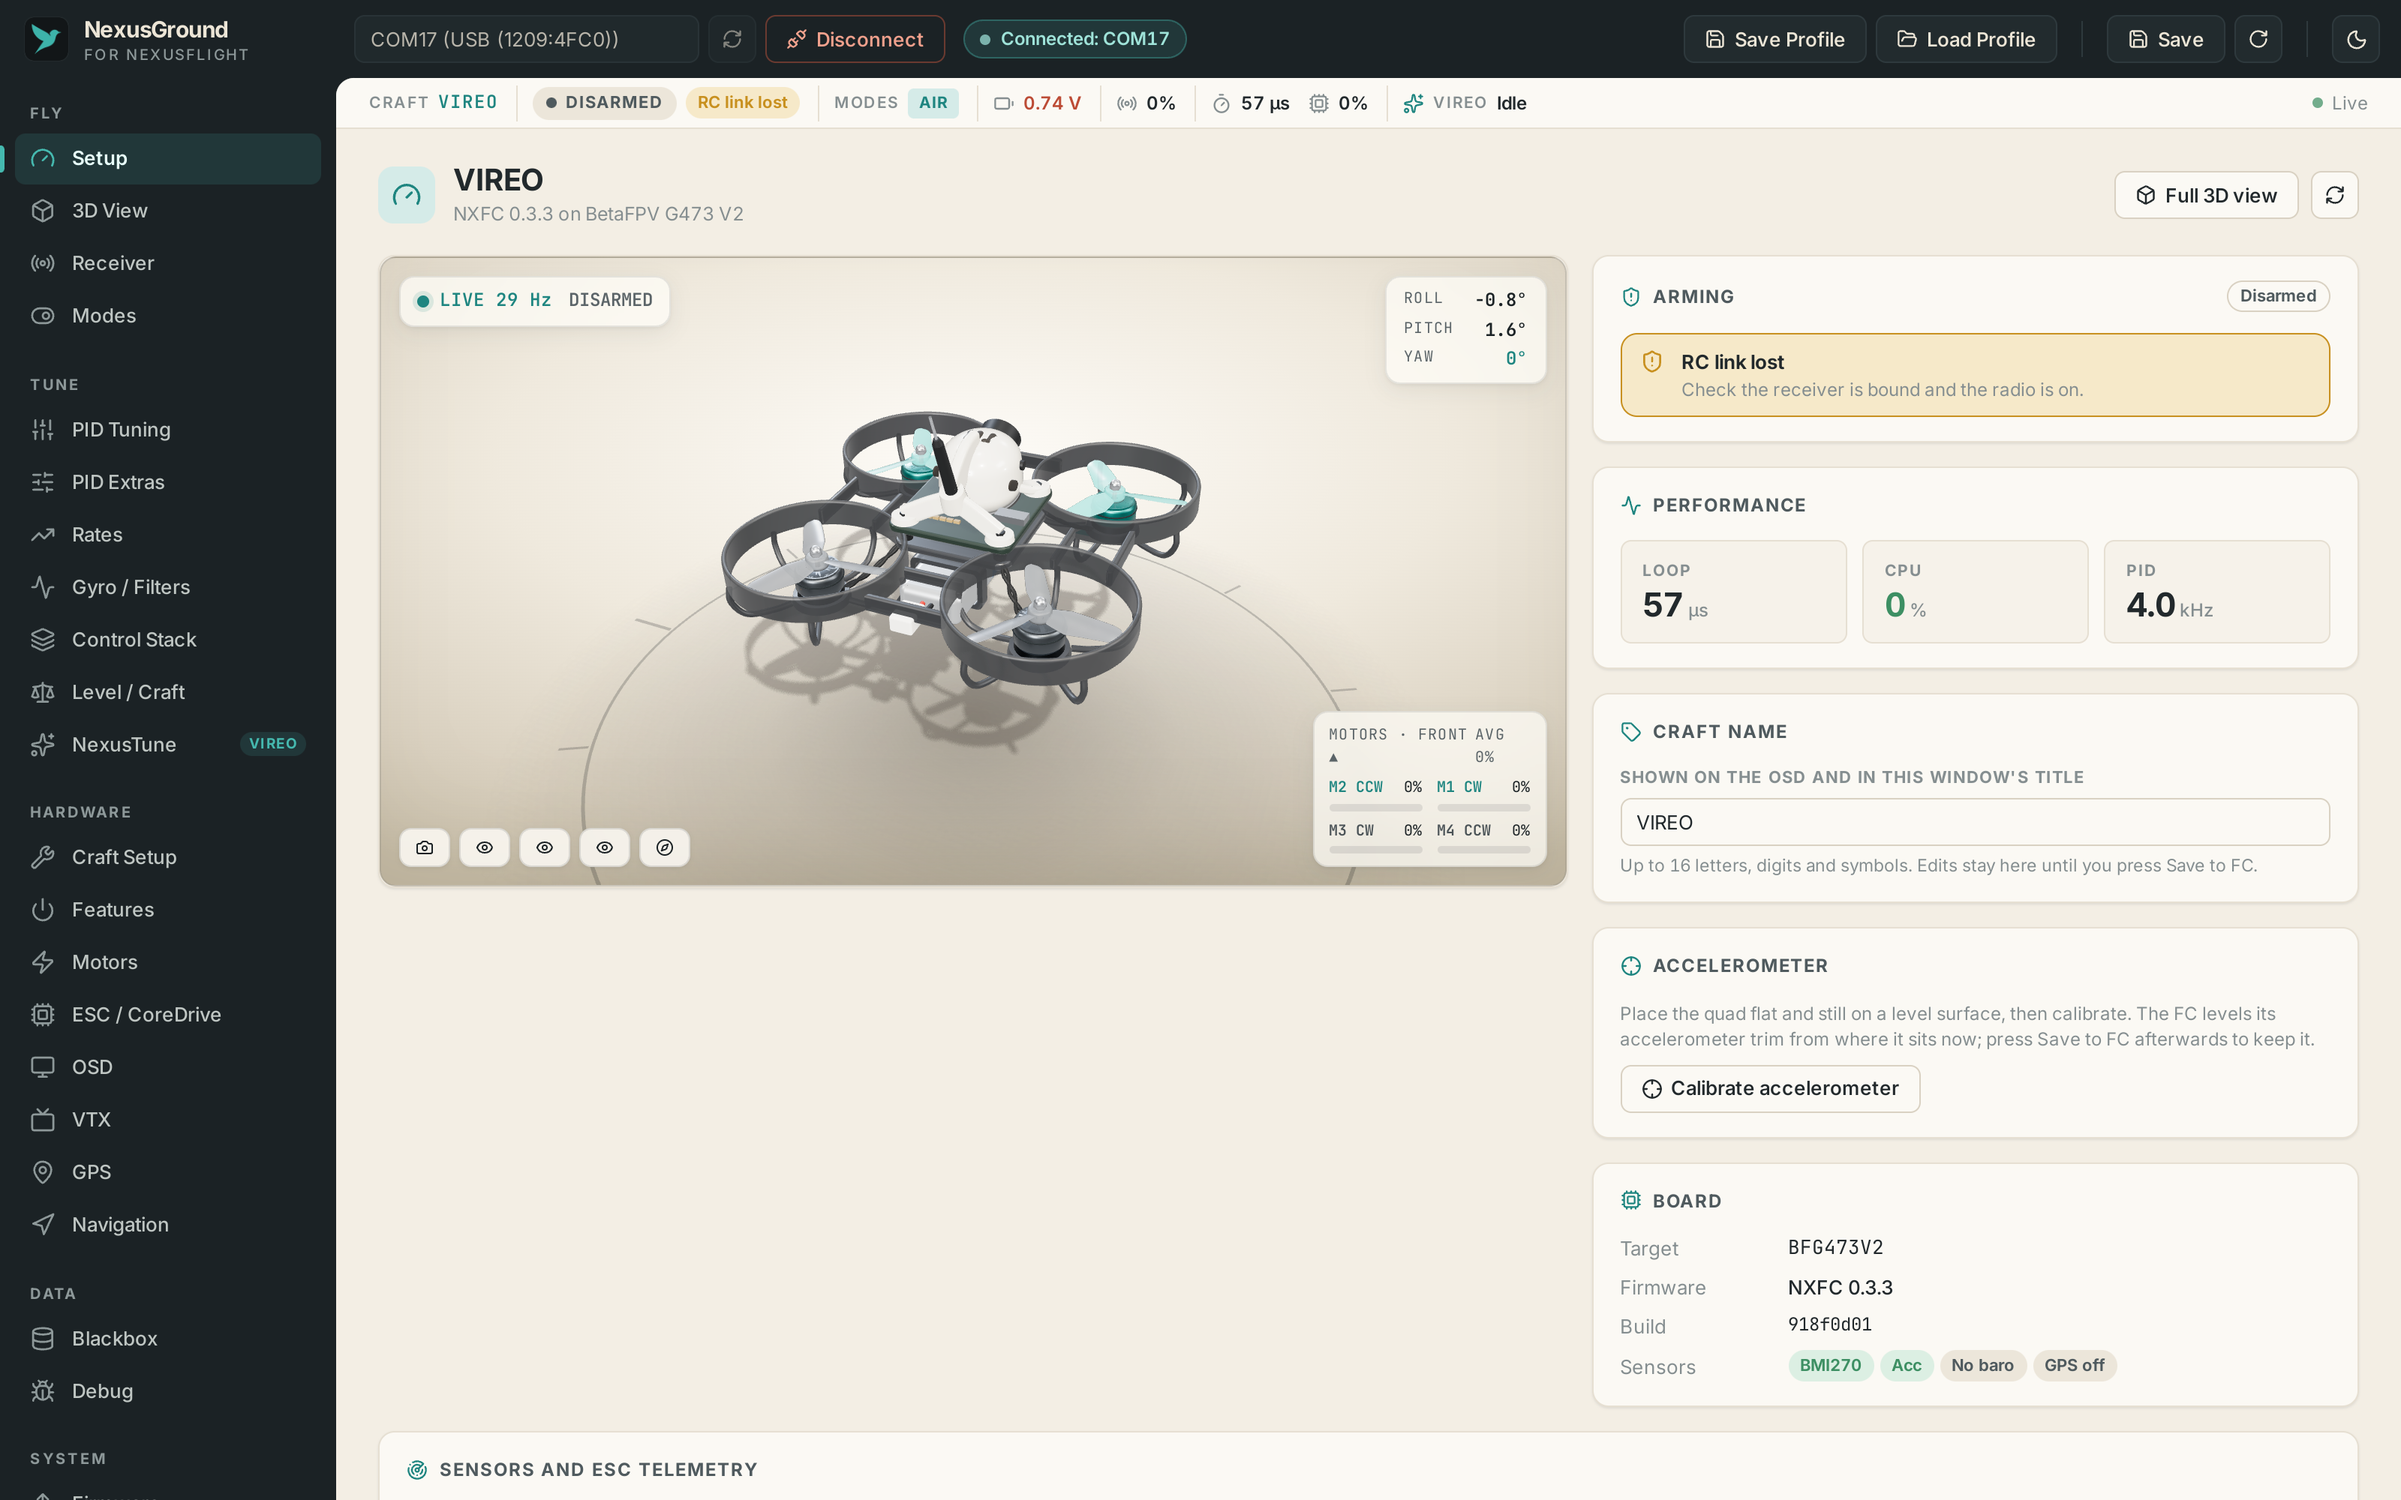
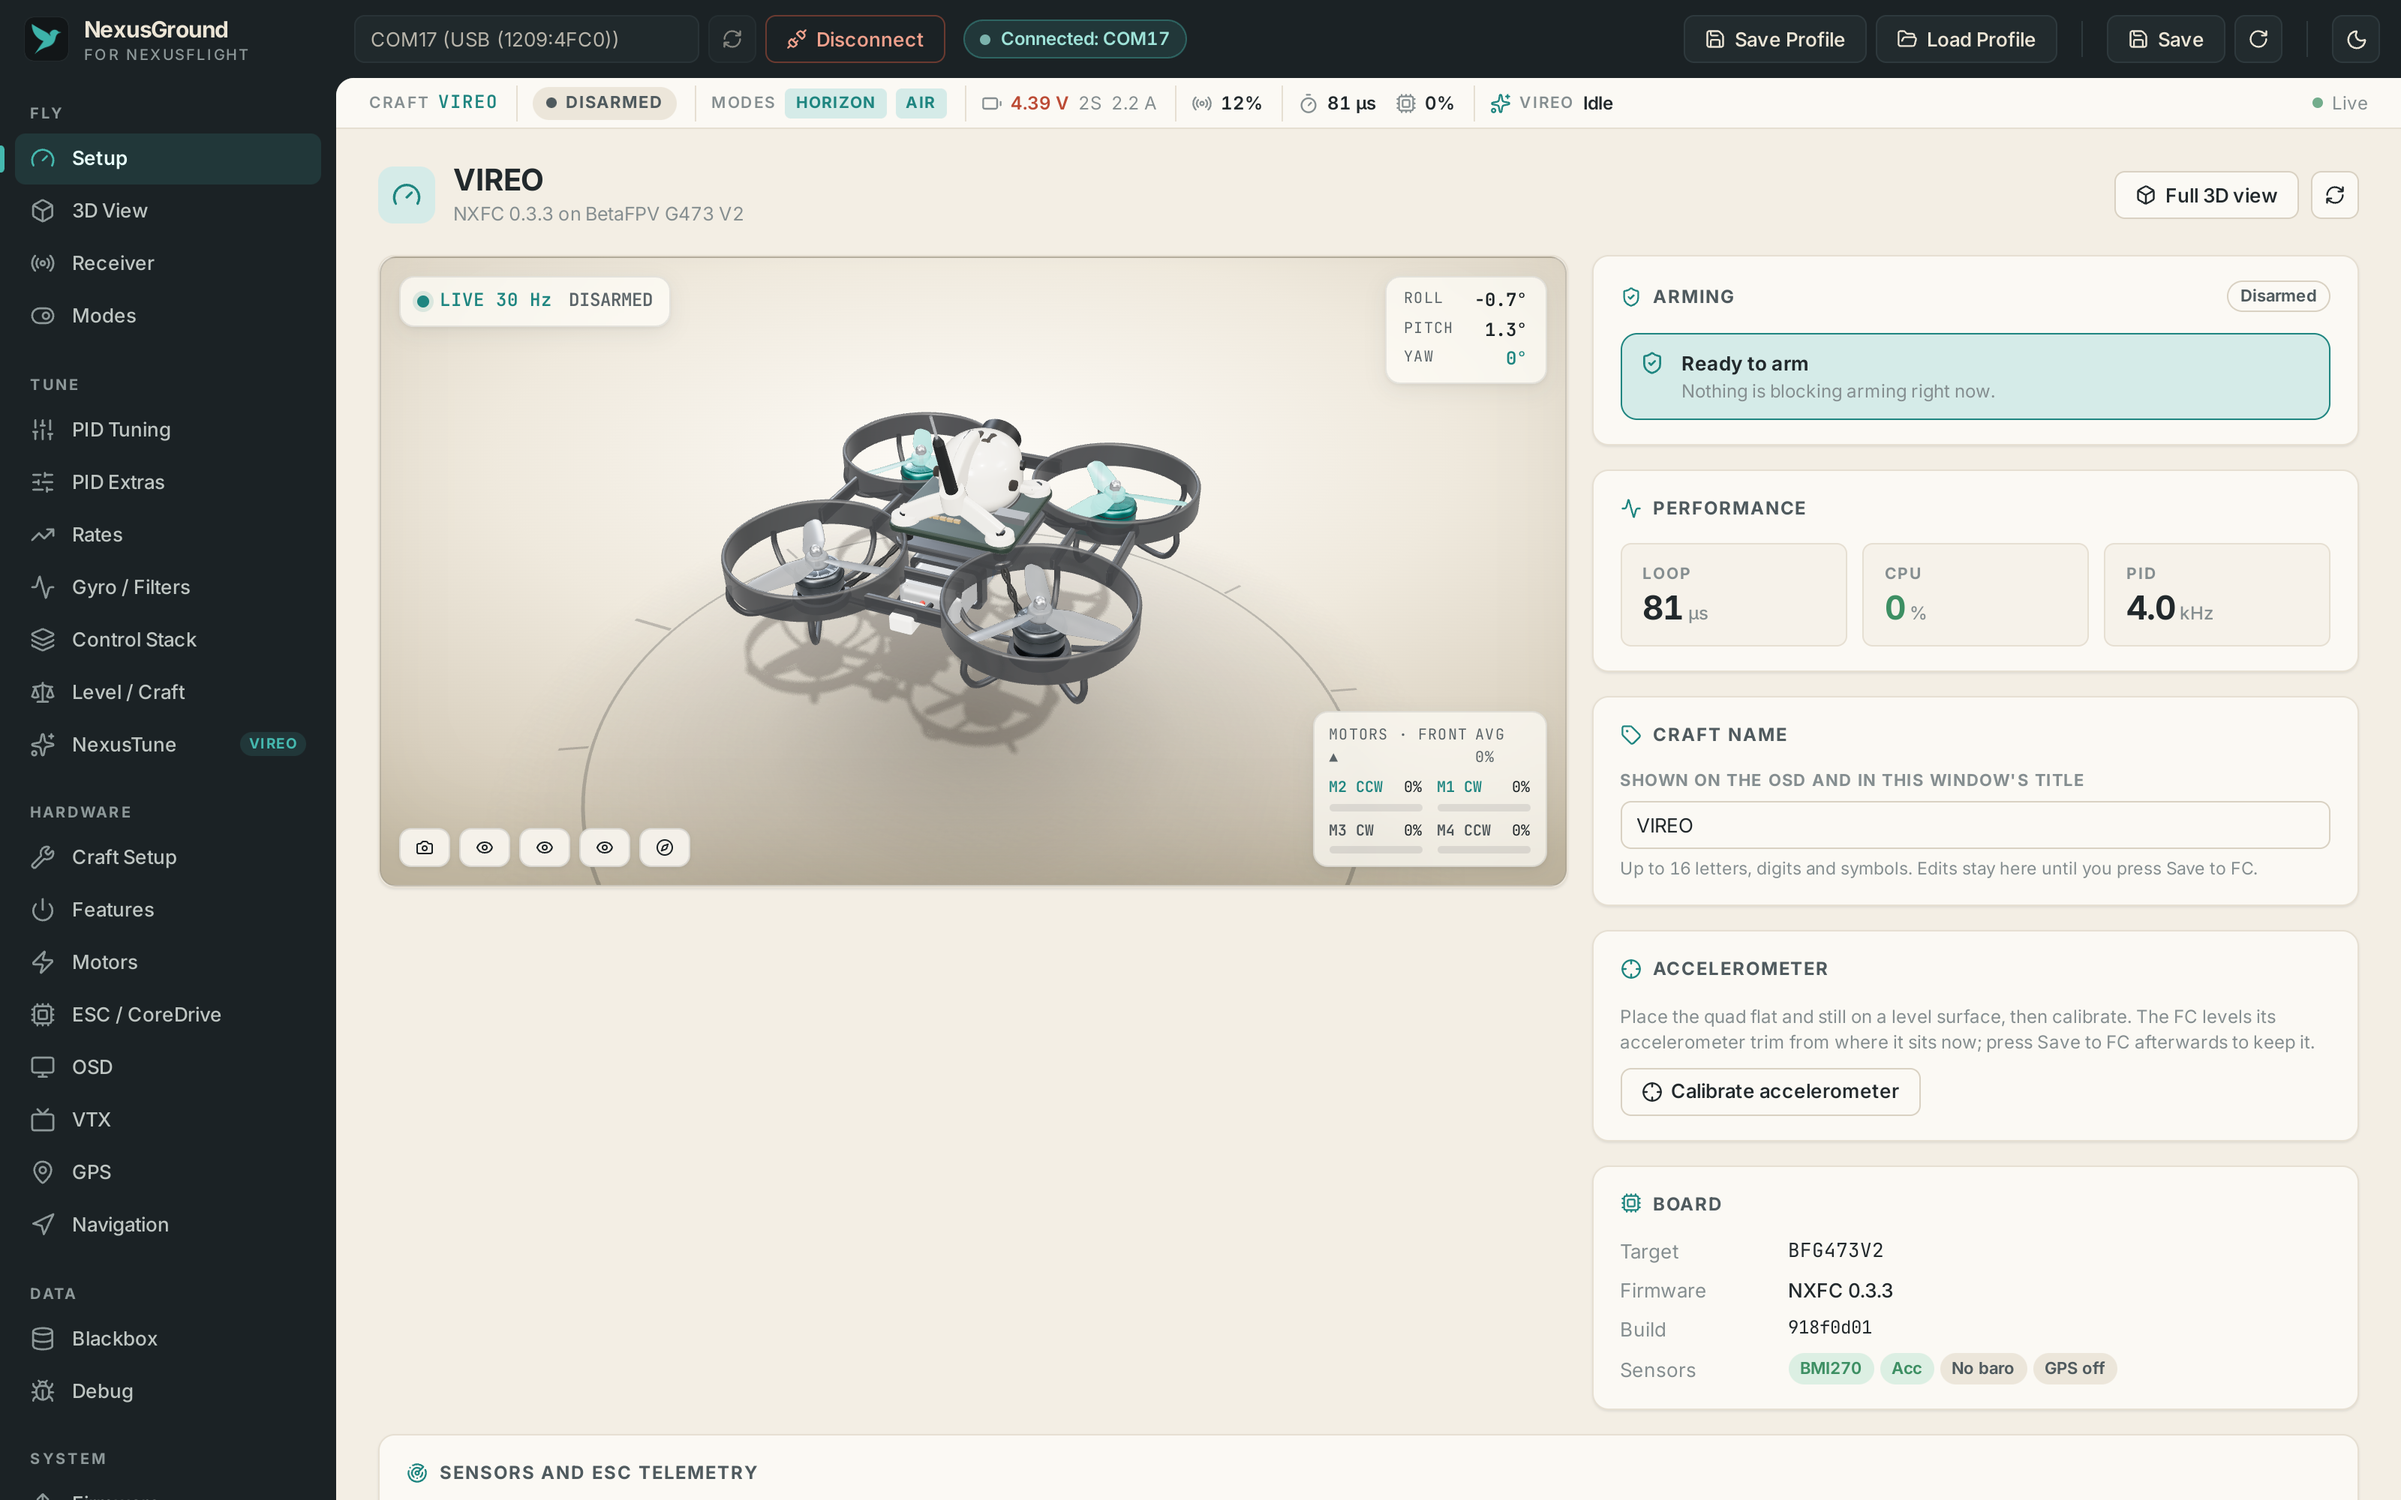
README: NexusGround screenshots with the battery in and the radio on
Regenerated from the Air65 II read live on the bench (props off): ready to
arm, battery and link as the FC reports them, HORIZON and AIR modes.

diff --git a/README.md b/README.md
@@ -489,7 +489,7 @@ Recommended for every first flash: **props off**, save the stock CLI `dump` and 
 ### NexusGround Configurator
 
 <p align="center">
-  <img src="assets/screenshots/nexusground-setup.png" alt="NexusGround Setup tab, light theme: the Air65 II (craft VIREO) connected on USB with the live 3D attitude view, arming checks, loop and CPU, craft name and board details" width="880" />
+  <img src="assets/screenshots/nexusground-setup.png" alt="NexusGround Setup tab, light theme: the Air65 II (craft VIREO) connected on USB with the live 3D attitude view, Ready to arm, loop and CPU, craft name and board details" width="880" />
 </p>
 <p align="center">
   <img src="assets/screenshots/nexusground-nexustune-dark.png" alt="NexusGround NexusTune tab, dark theme: Vireo model loaded with its state and confidence, the learned-gains check, and the blackbox analyser with a flight log loaded" width="49%" />
@@ -518,7 +518,7 @@ Recommended for every first flash: **props off**, save the stock CLI `dump` and 
     <td align="center"><sub>Link Assist</sub></td>
   </tr>
 </table>
-<p align="center"><sub>The redesigned NexusGround (development build) connected live to an Air65 II (craft VIREO) on USB power only, so no battery, radio or ESCs. The Blackbox explorer is plotting a real NexusFlight flight log.</sub></p>
+<p align="center"><sub>The redesigned NexusGround (development build) connected live to an Air65 II (craft VIREO) on the bench, battery in, props off, radio on. The ESC page shows the CoreDrive-8051 settings layout, not a live read. The Blackbox explorer is plotting a real NexusFlight flight log.</sub></p>
 
 **New in the redesign (development build, not yet released):**
 
